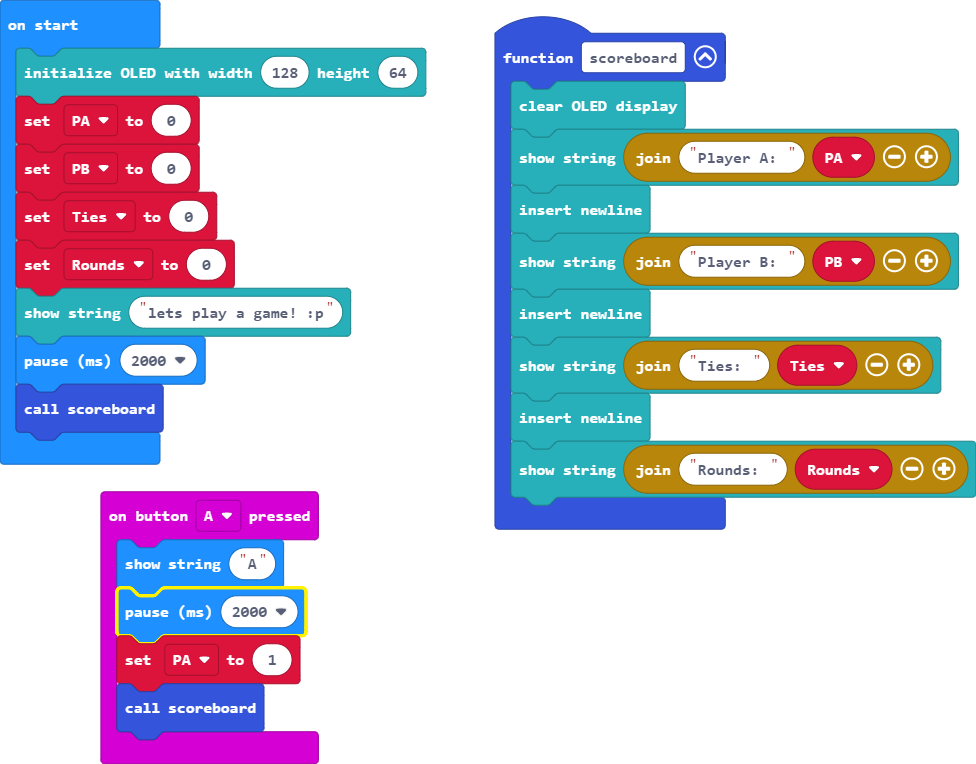
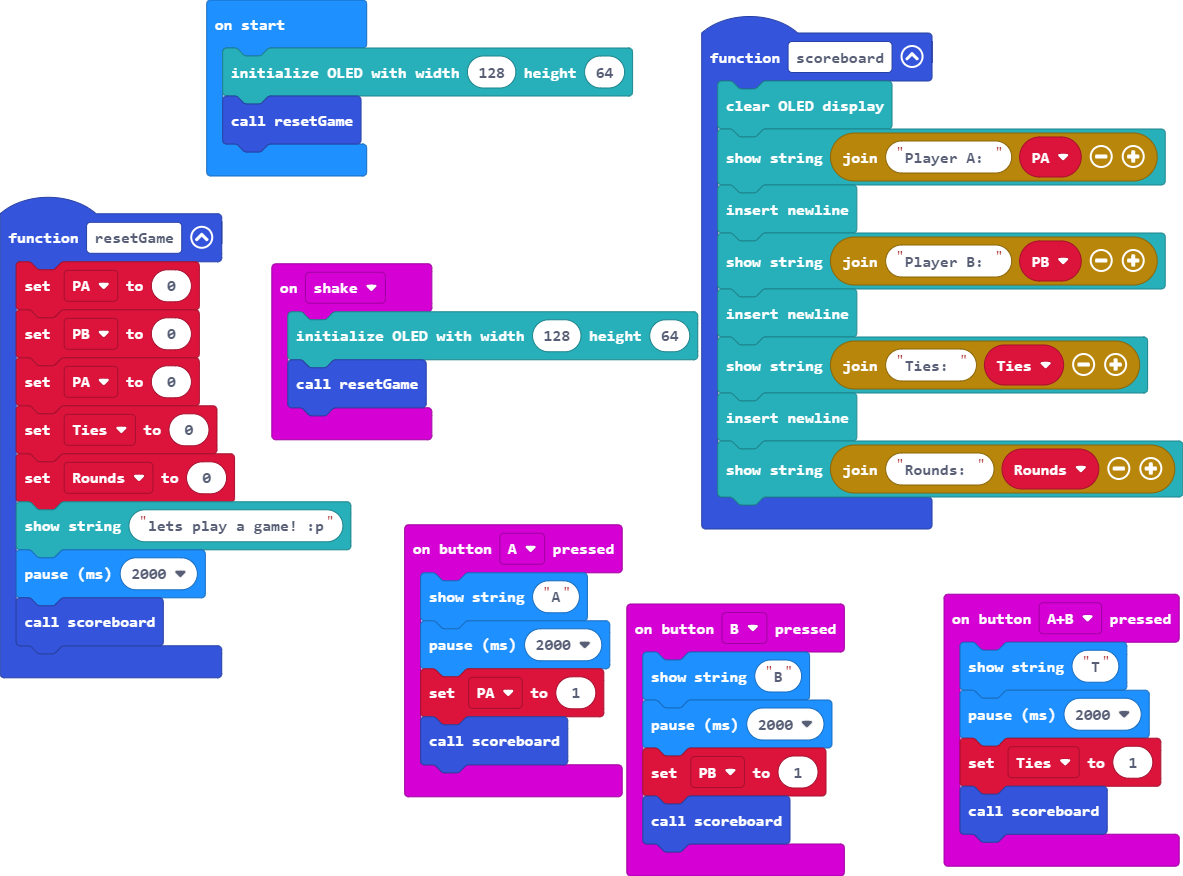
Update main.blocks, main.ts

diff --git a/main.ts b/main.ts
@@ -8,21 +8,41 @@ function scoreboard () {
     OLED.newLine()
     OLED.writeStringNewLine("Rounds: " + Rounds)
 }
+function resetGame () {
+    PA = 0
+    PB = 0
+    PA = 0
+    Ties = 0
+    Rounds = 0
+    OLED.writeStringNewLine("lets play a game! :p")
+    basic.pause(2000)
+    scoreboard()
+}
 input.onButtonPressed(Button.A, function () {
     basic.showString("A")
     basic.pause(2000)
     PA = 1
     scoreboard()
 })
+input.onButtonPressed(Button.AB, function () {
+    basic.showString("T")
+    basic.pause(2000)
+    Ties = 1
+    scoreboard()
+})
+input.onButtonPressed(Button.B, function () {
+    basic.showString("B")
+    basic.pause(2000)
+    PB = 1
+    scoreboard()
+})
+input.onGesture(Gesture.Shake, function () {
+    OLED.init(128, 64)
+    resetGame()
+})
 let Rounds = 0
 let Ties = 0
 let PB = 0
 let PA = 0
 OLED.init(128, 64)
-PA = 0
-PB = 0
-Ties = 0
-Rounds = 0
-OLED.writeStringNewLine("lets play a game! :p")
-basic.pause(2000)
-scoreboard()
+resetGame()
